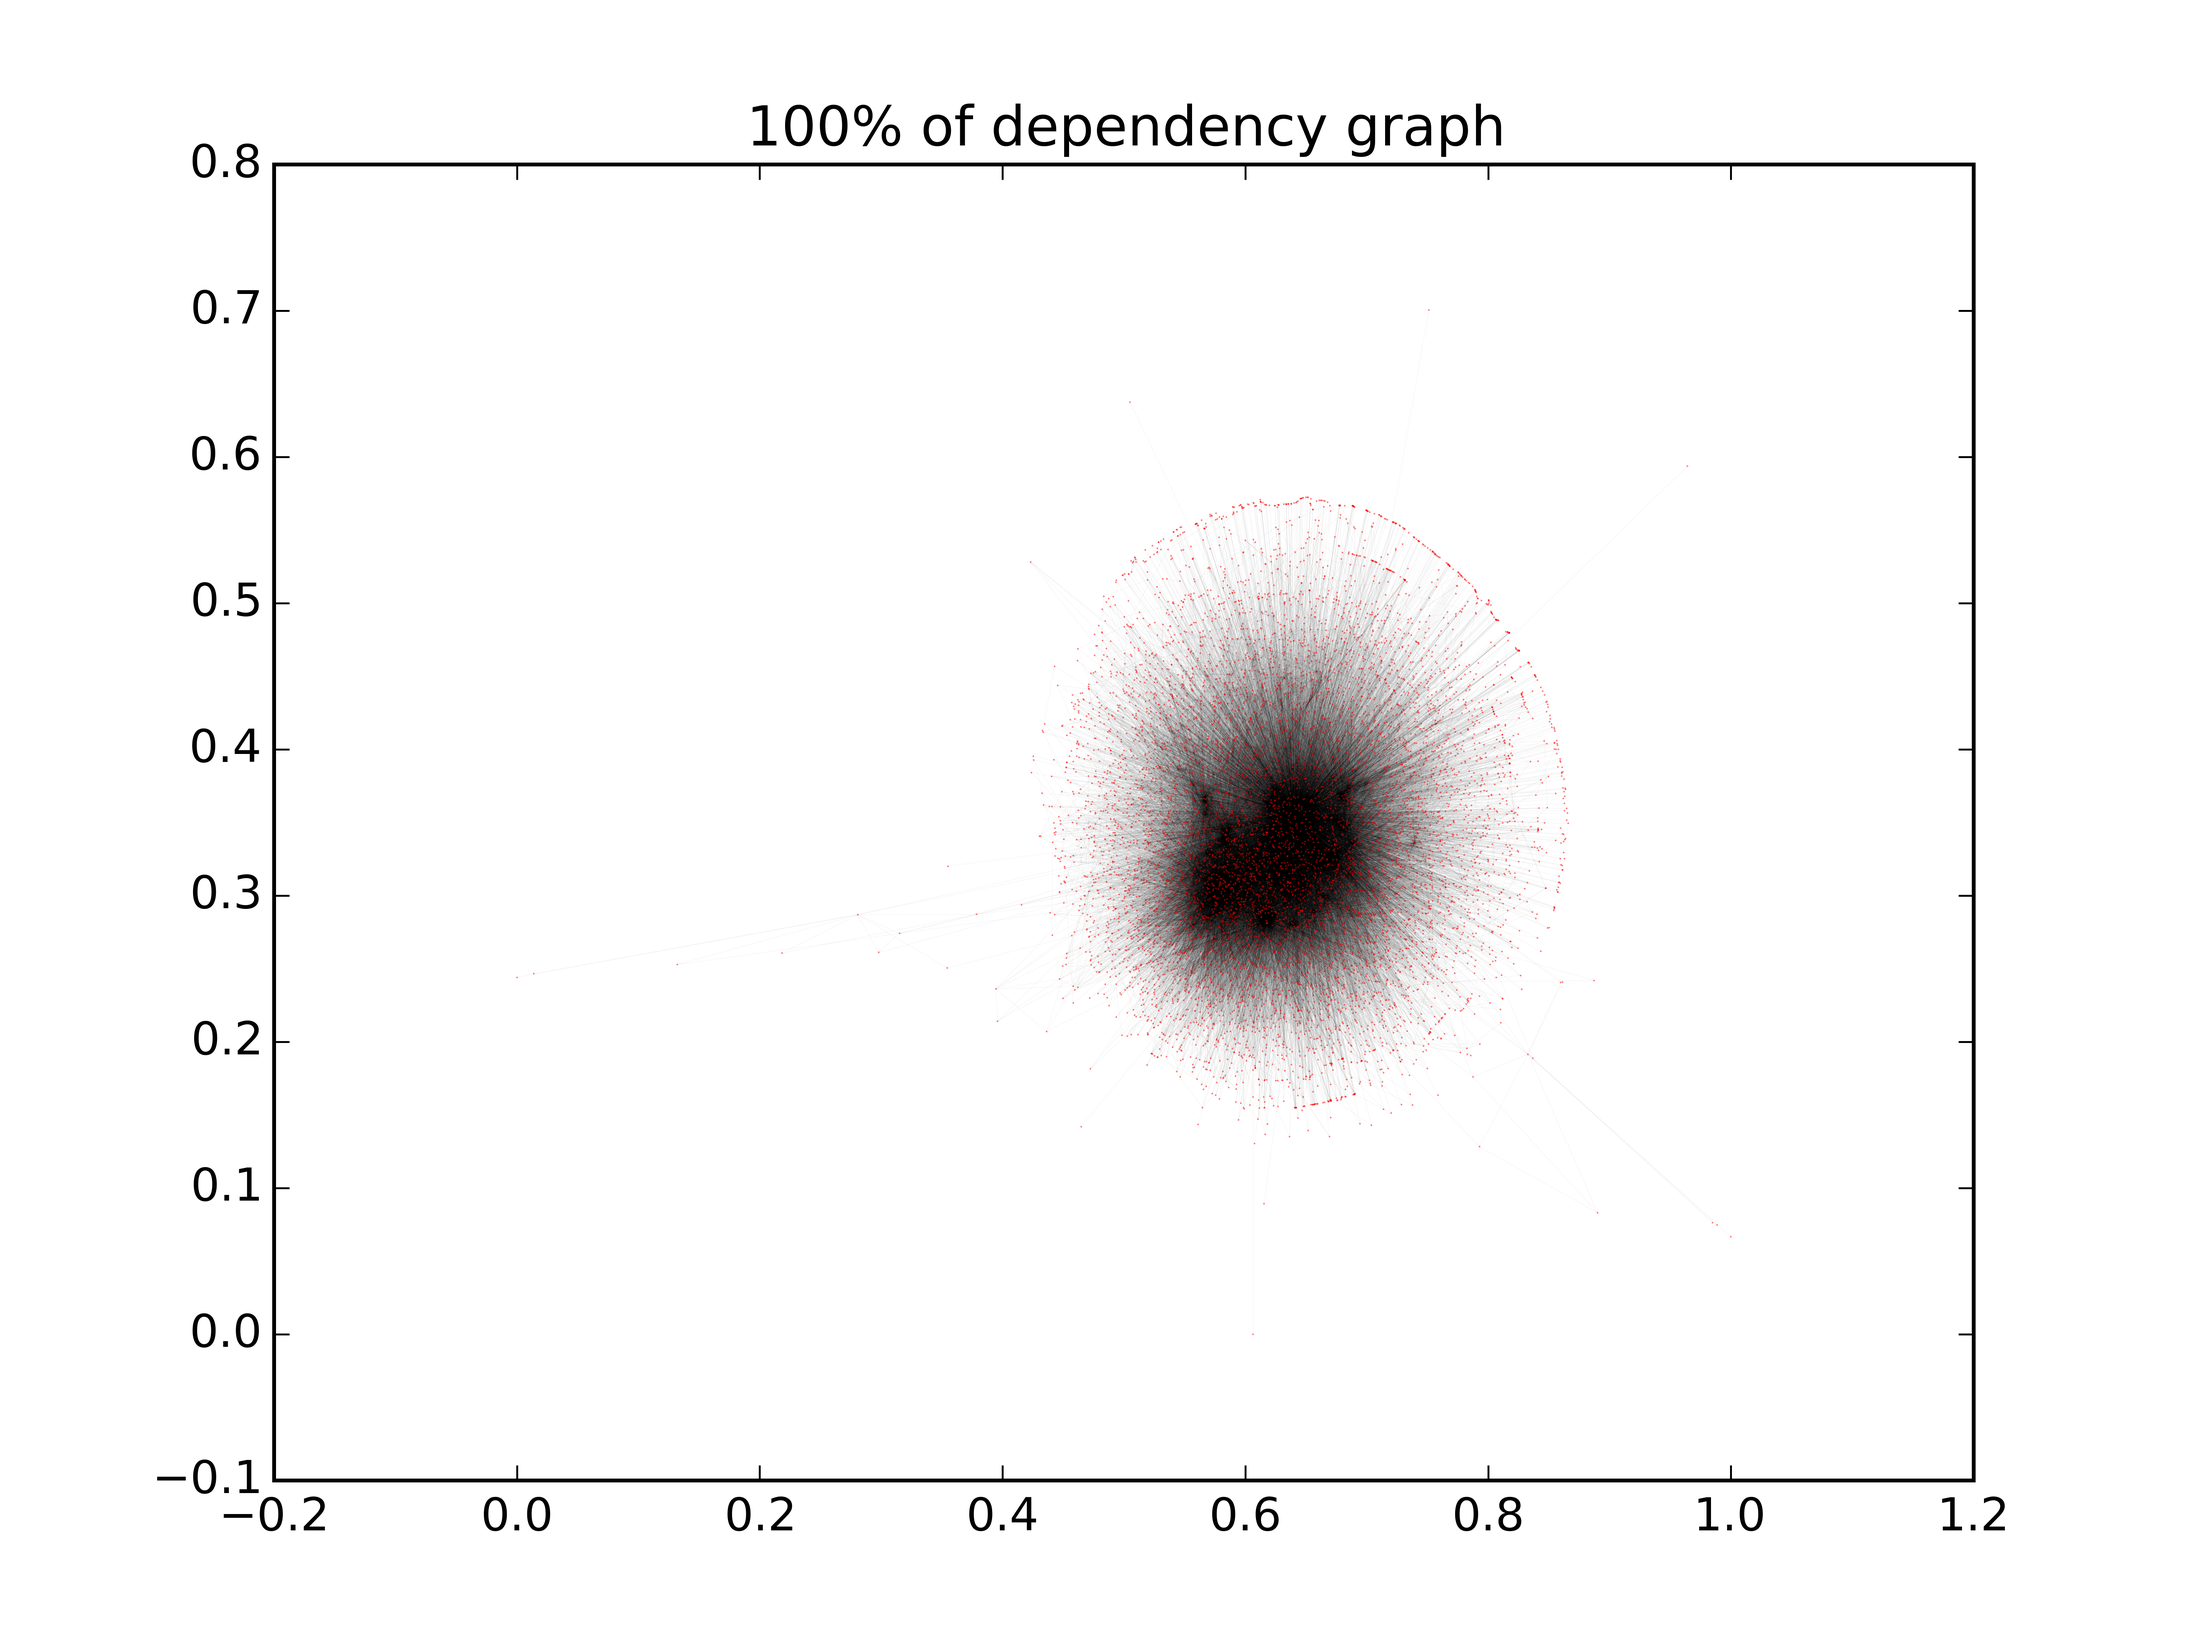
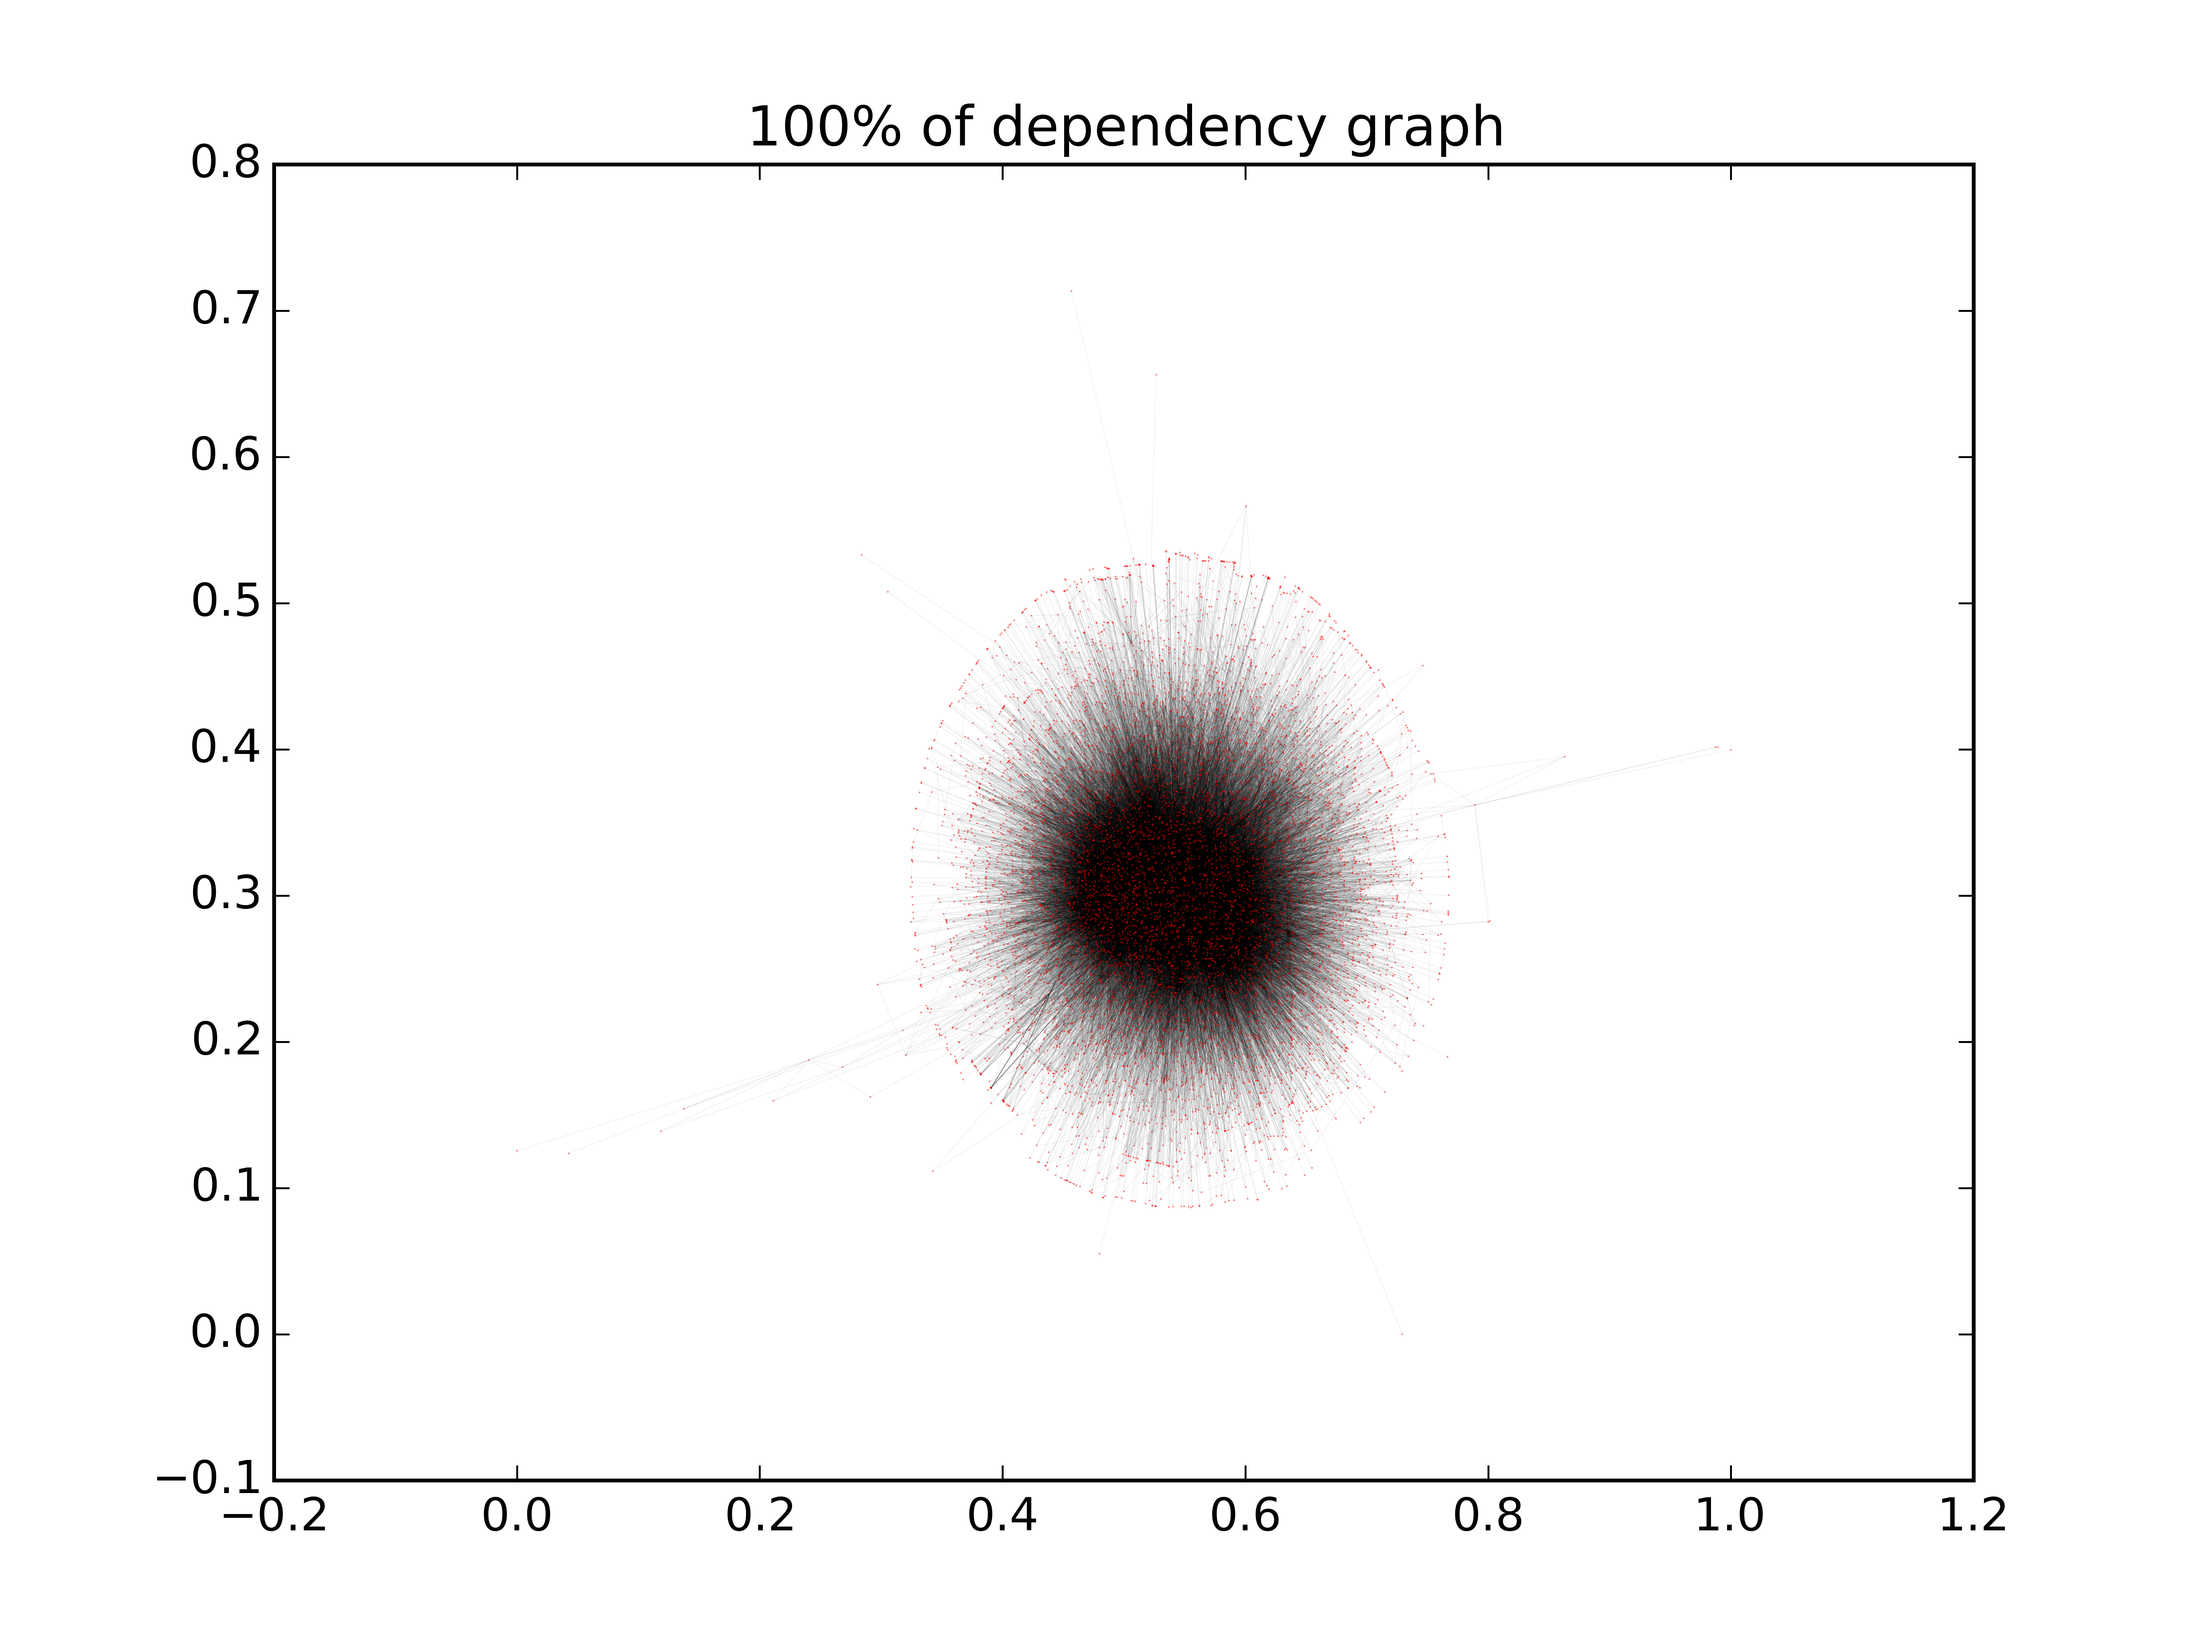
remade some plots

Changed region(s): [[0.4062, 0.3125, 0.6875, 0.7188]]

diff --git a/src/gen_plots/pagerank_dependents.py b/src/gen_plots/pagerank_dependents.py
@@ -52,7 +52,7 @@ def scatter_pr_ndep(save=True, show=False, verbose=False):
         pMaxPr.append(names[i])
     print('The greatest page rank is: ' + str(maxPr))
     print('The packages with this pr are: ' + str(pMaxPr))
-  plt.title('Page Rank as a function of number of immediate dependents')
+  plt.title('Importance vs. Importance')
   plt.xlabel('# dependents')
   plt.ylabel('page rank')
   plt.scatter(nDeps, nPrs)
@@ -61,7 +61,7 @@ def scatter_pr_ndep(save=True, show=False, verbose=False):
   if show: plt.show()
   if save:
     outputPath = outputDir + '/' + 'pagerank_dependents.png'
-    plt.savefig(outputPath)
+    plt.savefig(outputPath, dpi=720)
 
 scatter_pr_ndep(save=True, show=False, verbose=True)
 

diff --git a/src/graphs/full_graph.py b/src/graphs/full_graph.py
@@ -47,7 +47,7 @@ def show_full_graph(pct=1, show=False, save=True):
     node_size=0.2,
     alpha=0.5,
     linewidths=0,
-    width=0.01,
+    width=0.02,
     )
   #nx.draw(g)
   title = str(100*pct) + '% of dependency graph'
